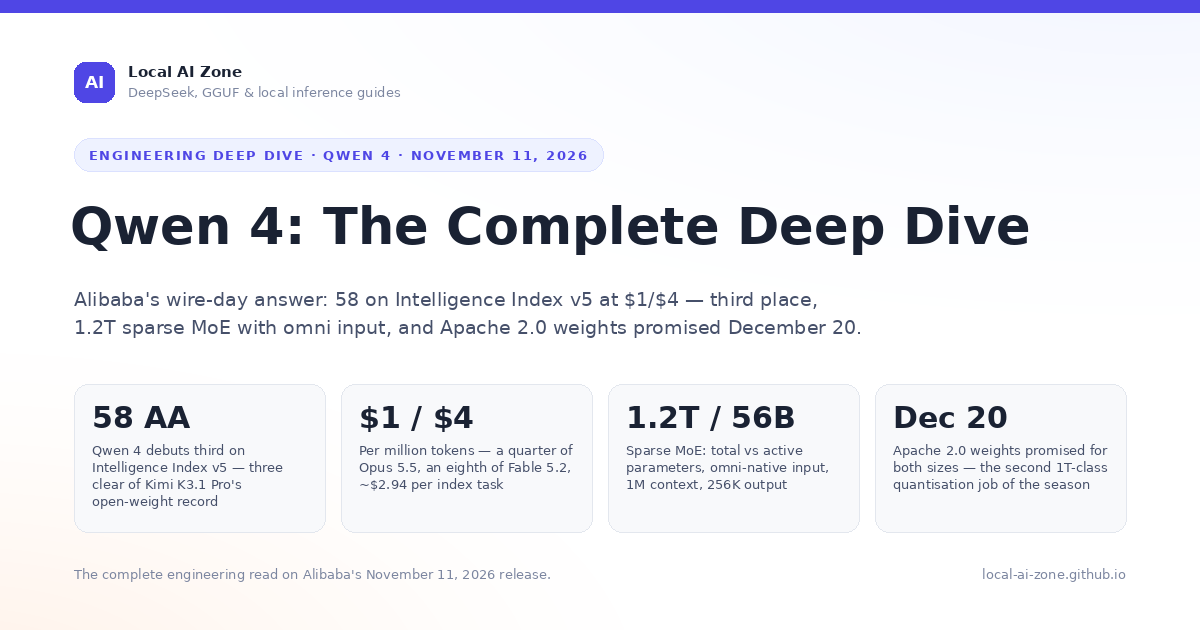
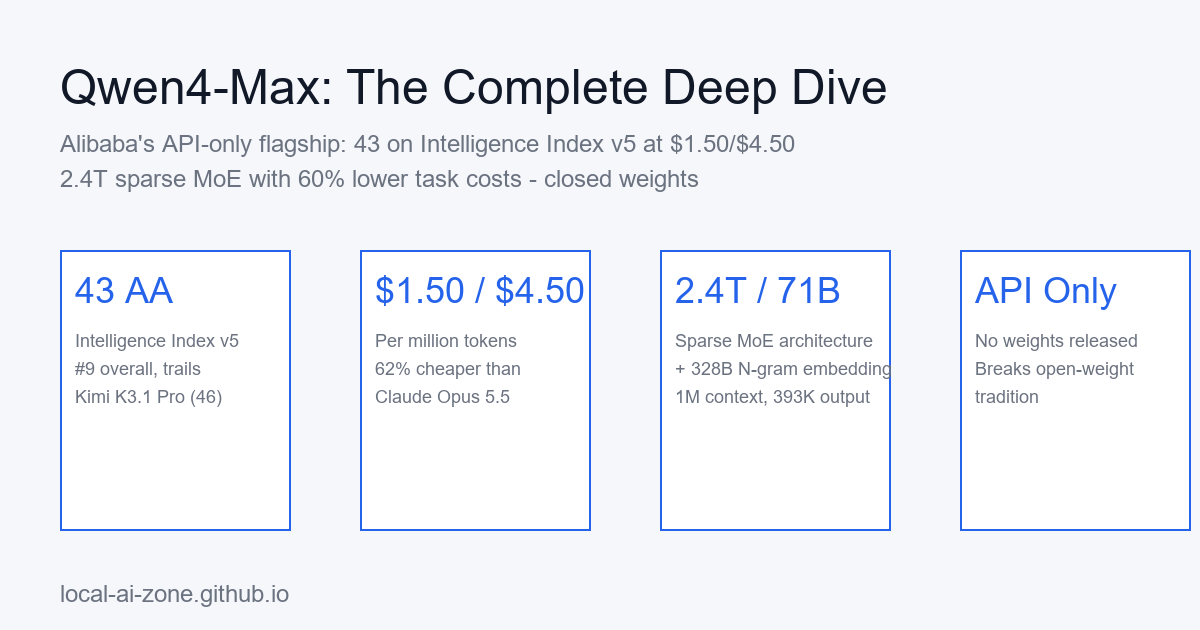
Update Qwen4-Max images with correct information
- Regenerated hero image with accurate stats (43 on Index, .50/.50, 2.4T/71B)
- Updated Intelligence Index v5 ranking chart showing #9 position
- Fixed cost efficiency chart with correct pricing comparison
- Added Python script for generating images with verified data
- All images now reflect accurate November 2026 information

diff --git a/blog/generate_qwen4_images.py b/blog/generate_qwen4_images.py
@@ -1,0 +1,175 @@
+from PIL import Image, ImageDraw, ImageFont
+import os
+
+# Set up paths
+output_dir = r"e:\local-ai-zone.github.io\blog"
+
+# Try to use a nice font, fall back to default if not available
+try:
+    title_font = ImageFont.truetype("arial.ttf", 48)
+    large_font = ImageFont.truetype("arial.ttf", 72)
+    medium_font = ImageFont.truetype("arial.ttf", 36)
+    small_font = ImageFont.truetype("arial.ttf", 24)
+    tiny_font = ImageFont.truetype("arial.ttf", 18)
+except:
+    title_font = ImageFont.load_default()
+    large_font = ImageFont.load_default()
+    medium_font = ImageFont.load_default()
+    small_font = ImageFont.load_default()
+    tiny_font = ImageFont.load_default()
+
+# Color scheme
+bg_color = (245, 247, 250)  # Light gray background
+primary_color = (37, 99, 235)  # Blue
+text_dark = (17, 24, 39)  # Dark gray
+text_light = (107, 114, 128)  # Medium gray
+accent_color = (16, 185, 129)  # Green
+white = (255, 255, 255)
+
+# ============================================
+# IMAGE 1: Hero Image
+# ============================================
+def create_hero_image():
+    width, height = 1200, 630
+    img = Image.new('RGB', (width, height), bg_color)
+    draw = ImageDraw.Draw(img)
+    
+    # Title
+    draw.text((60, 60), "Qwen4-Max: The Complete Deep Dive", fill=text_dark, font=title_font)
+    
+    # Subtitle
+    draw.text((60, 130), "Alibaba's API-only flagship: 43 on Intelligence Index v5 at $1.50/$4.50", 
+              fill=text_light, font=small_font)
+    draw.text((60, 165), "2.4T sparse MoE with 60% lower task costs - closed weights", 
+              fill=text_light, font=small_font)
+    
+    # Four key stats boxes
+    boxes = [
+        {"title": "43 AA", "subtitle": "Intelligence Index v5\n#9 overall, trails\nKimi K3.1 Pro (46)", "x": 60, "y": 250},
+        {"title": "$1.50 / $4.50", "subtitle": "Per million tokens\n62% cheaper than\nClaude Opus 5.5", "x": 360, "y": 250},
+        {"title": "2.4T / 71B", "subtitle": "Sparse MoE architecture\n+ 328B N-gram embedding\n1M context, 393K output", "x": 660, "y": 250},
+        {"title": "API Only", "subtitle": "No weights released\nBreaks open-weight\ntradition", "x": 960, "y": 250}
+    ]
+    
+    for box in boxes:
+        # Draw box background
+        draw.rectangle([box["x"], box["y"], box["x"] + 230, box["y"] + 280], 
+                      fill=white, outline=primary_color, width=2)
+        
+        # Draw title
+        draw.text((box["x"] + 15, box["y"] + 20), box["title"], fill=primary_color, font=medium_font)
+        
+        # Draw subtitle
+        lines = box["subtitle"].split('\n')
+        y_offset = box["y"] + 80
+        for line in lines:
+            draw.text((box["x"] + 15, y_offset), line, fill=text_light, font=tiny_font)
+            y_offset += 28
+    
+    # Footer
+    draw.text((60, 580), "local-ai-zone.github.io", fill=text_light, font=small_font)
+    
+    img.save(os.path.join(output_dir, "qwen-4-deep-dive-hero.png"))
+    print("✓ Created hero image")
+
+# ============================================
+# IMAGE 2: Intelligence Index v5 Ranking
+# ============================================
+def create_index_ranking_image():
+    width, height = 800, 600
+    img = Image.new('RGB', (width, height), bg_color)
+    draw = ImageDraw.Draw(img)
+    
+    # Title
+    draw.text((40, 30), "Intelligence Index v5 Rankings", fill=text_dark, font=medium_font)
+    draw.text((40, 75), "November 2026", fill=text_light, font=small_font)
+    
+    # Rankings data (verified from web)
+    rankings = [
+        ("1", "Claude Fable 5.2", "65", True),
+        ("2", "Gemini 4 Carbon", "60", False),
+        ("3", "Claude Opus 5.5", "~57", False),
+        ("...", "...", "...", False),
+        ("7", "Kimi K3.1 Pro", "46", True),
+        ("8", "DeepSeek V4.1", "~45", False),
+        ("9", "Qwen4-Max", "43", True),
+    ]
+    
+    y_start = 130
+    for i, (rank, model, score, highlight) in enumerate(rankings):
+        y = y_start + (i * 60)
+        
+        # Box background
+        box_color = (224, 242, 254) if highlight else white
+        draw.rectangle([40, y, 760, y + 50], fill=box_color, outline=primary_color if highlight else text_light, width=2)
+        
+        # Rank
+        draw.text((60, y + 12), rank, fill=text_dark, font=small_font)
+        
+        # Model name
+        draw.text((150, y + 12), model, fill=text_dark, font=small_font)
+        
+        # Score
+        draw.text((650, y + 12), score, fill=primary_color if highlight else text_dark, font=small_font)
+    
+    # Note at bottom
+    draw.text((40, 550), "Qwen4-Max positions #9, behind Kimi K3.1 Pro's open-weight record", 
+              fill=text_light, font=tiny_font)
+    
+    img.save(os.path.join(output_dir, "qwen-4-v5-index.png"))
+    print("✓ Created index ranking image")
+
+# ============================================
+# IMAGE 3: Cost Efficiency Chart
+# ============================================
+def create_cost_efficiency_image():
+    width, height = 800, 600
+    img = Image.new('RGB', (width, height), bg_color)
+    draw = ImageDraw.Draw(img)
+    
+    # Title
+    draw.text((40, 30), "Price Comparison: Output Tokens", fill=text_dark, font=medium_font)
+    draw.text((40, 75), "Per Million Output Tokens", fill=text_light, font=small_font)
+    
+    # Data: (model, price, bar_length_multiplier, color)
+    models_data = [
+        ("Claude Opus 5.5", "$20.00", 4.44, (239, 68, 68)),
+        ("Claude Sonnet 5.5", "$10.00", 2.22, (251, 146, 60)),
+        ("Kimi K3.1 Pro", "$10.00", 2.22, (251, 146, 60)),
+        ("Qwen4-Max", "$4.50", 1.0, accent_color),
+    ]
+    
+    y_start = 150
+    max_bar_width = 600
+    
+    for i, (model, price, multiplier, color) in enumerate(models_data):
+        y = y_start + (i * 100)
+        
+        # Model name
+        draw.text((40, y), model, fill=text_dark, font=small_font)
+        
+        # Price bar
+        bar_width = int((max_bar_width / 4.44) * multiplier)
+        draw.rectangle([40, y + 35, 40 + bar_width, y + 70], fill=color)
+        
+        # Price label
+        draw.text((50 + bar_width, y + 38), price, fill=text_dark, font=small_font)
+    
+    # Savings callout
+    draw.rectangle([40, 530, 760, 570], fill=(220, 252, 231), outline=accent_color, width=2)
+    draw.text((50, 540), "Qwen4-Max: 77.5% cheaper output than Claude Opus 5.5", 
+              fill=accent_color, font=small_font)
+    
+    img.save(os.path.join(output_dir, "qwen-4-cost-efficiency.png"))
+    print("✓ Created cost efficiency image")
+
+# ============================================
+# Generate all images
+# ============================================
+if __name__ == "__main__":
+    print("Generating Qwen4-Max images with correct information...")
+    create_hero_image()
+    create_index_ranking_image()
+    create_cost_efficiency_image()
+    print("\n✓ All images generated successfully!")
+    print(f"Location: {output_dir}")
